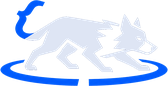
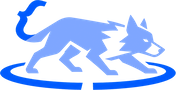
Give byor's mark a sharper image, a larger size and a light blue wolf in dark mode
In an open panel the mark's frame grew but its image kept the card's
size, so a small wolf sat far from the name. The image now fills its
frame, and the mark stands about as tall as the name: 20px on a card and
30px in a panel. Both versions are cut from the full-size logo in the
byor repository, so they stay sharp at 3x. In dark mode the wolf is a
light blue that matches its ring, instead of near-white.

diff --git a/src/styles/cards.css b/src/styles/cards.css
@@ -134,10 +134,16 @@
 }
 
 /* brand marks */
+/* byor's mark stands about as tall as its name, so the two read as one wordmark. */
 .mark {
   flex: none;
-  width: 31px;
-  height: 16px;
+  width: 39px;
+  height: 20px;
+}
+.mark img {
+  display: block;
+  width: 100%;
+  height: 100%;
 }
 .wordmark {
   flex: none;
@@ -148,8 +154,8 @@
   margin: -5px 0 -2px;
 }
 .p-t .mark {
-  width: 43px;
-  height: 22px;
+  width: 59px;
+  height: 30px;
 }
 .p-t .wordmark img {
   width: 46px;
